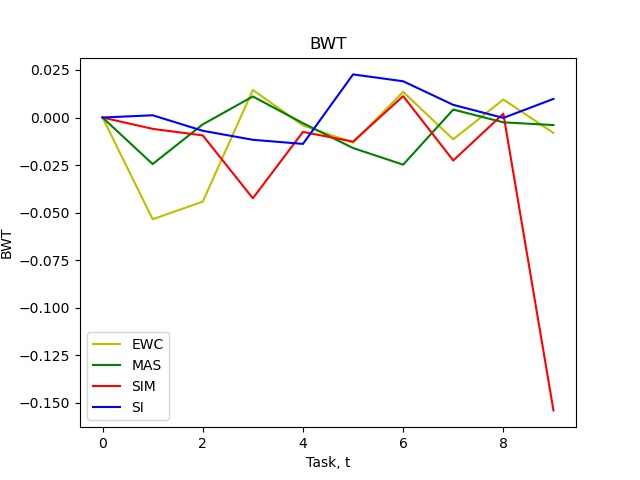
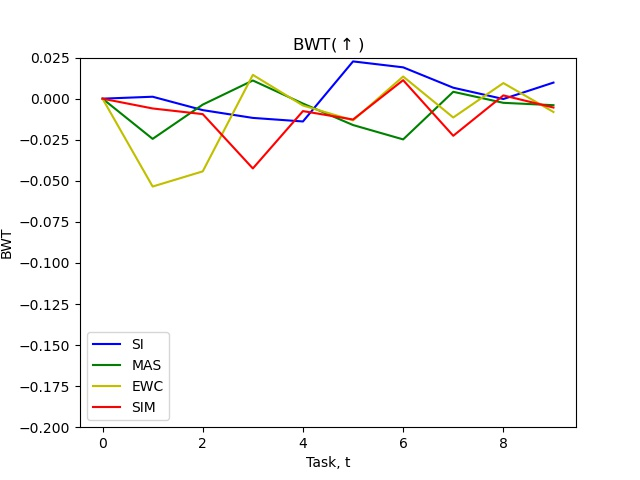
j

diff --git a/ISG/cifar100_baseline.py b/ISG/cifar100_baseline.py
@@ -1,0 +1,86 @@
+import torch.nn as nn
+import torch.nn.functional as F
+import torch.optim as optim
+import torchvision
+import os
+import shutil
+import sys
+from utils.optimizer_utils import *
+from utils.data_prep import *
+
+
+
+class Net(nn.Module):
+    def __init__(self):
+        super().__init__()
+        self.conv1 = nn.Conv2d(in_channels=3, out_channels=32, kernel_size=3, padding=1)
+        self.conv2 = nn.Conv2d(in_channels=32, out_channels=64, kernel_size=3, padding=1)
+        self.conv3 = nn.Conv2d(in_channels=64, out_channels=64, kernel_size=3, padding=1)
+        self.conv4 = nn.Conv2d(in_channels=64, out_channels=64, kernel_size=3, padding=1)
+        self.pool = nn.MaxPool2d(2, 2)
+        self.fc1 = nn.Linear(4096, 512)
+        self.fc2 = nn.Linear(512, 10)
+
+
+    def forward(self, x):
+        x = F.relu(self.conv1(x))
+        x = F.relu(self.conv2(x))
+        x = self.pool(x)
+        x = F.relu(self.conv3(x))
+        x = F.relu(self.conv4(x))
+        x = self.pool(x)
+        x = x.view(x.size(0), -1) 
+        x = self.fc1(x)
+        x = self.fc2(x)
+        return x
+
+def test(self, net, testloader, epoch):
+	test_losses = []
+	test_loss = 0
+	correct = 0
+
+	# with torch.no_grad(): # we don't need Autograd for testing. commented out for l2_grad computation.
+	for batch_idx, (data, target) in enumerate(testloader):
+		data = data.cuda()
+		target = target.cuda()
+		output = net.forward(data)
+		pred = output.data.max(1, keepdim=True)[1] #prediction
+		correct += pred.eq(target.data.view_as(pred)).sum() #view_as --> use same dim?
+	test_loss /= len(testloader.dataset)
+	test_losses.append(test_loss)
+	accuracy = 100.*correct/len(testloader.dataset)
+
+	print('Epoch: {}, \t Avg.loss: {:.4f},\t Test Accuracy: {}/{}({:.0f}%)'.format(epoch, test_loss, correct, len(testloader.dataset), accuracy))
+
+	return accuracy
+
+#Load datasets
+transform_train = transforms.Compose([
+	transforms.RandomCrop(32, padding=4),
+	transforms.RandomHorizontalFlip(),
+	transforms.ToTensor(),
+	transforms.Normalize((0.4914, 0.4822, 0.4465), (0.2023, 0.1994, 0.2010)),
+])
+transform_test = transforms.Compose([
+	transforms.ToTensor(),
+	transforms.Normalize((0.4914, 0.4822, 0.4465), (0.2023, 0.1994, 0.2010)),
+])
+
+trainset = torchvision.datasets.CIFAR100(root="../../data", train=True, download=False, transform=transform_train)
+testset = torchvision.datasets.CIFAR100(root="../../data", train=False, download=False, transform=transform_test)
+trainloader = torch.utils.data.DataLoader(trainset, batch_size=args.batch_size_train, shuffle=True, num_workers=2)
+testloader  = torch.utils.data.DataLoader(testset, batch_size=args.batch_size_test, shuffle=False, num_workers=2)
+
+
+net = Net()
+net.cuda()
+optimizer = optim.Adam(net.parameters(), lr=0.001, weight_decay=0)
+for epoch in range(80):
+	for batch_idx, (data, target) in enumerate(trainloader):
+		data = data.cuda()
+		target = target.cuda()
+		output = net.forward(data)
+		loss = nn.CrossEntropyLoss()
+		optimizer.zero_grad()
+		loss.backward()
+		acc = test(net, testloader, epoch)

diff --git a/ISG/utils/data_prep.py b/ISG/utils/data_prep.py
@@ -67,10 +67,10 @@ def load_datasets(args, task_num):
 			train = False,
 			transform = transform)
 
-	#Dataloader
-	trainloader = torch.utils.data.DataLoader(trainset, batch_size = args.batch_size_train, shuffle = True, num_workers = 2)
-	testloader = torch.utils.data.DataLoader(testset, batch_size = args.batch_size_test, shuffle = False, num_workers = 2)
-	# maskloader = torch.utils.data.DataLoader(testset, batch_size = args.batch_size_fisher, shuffle = True, num_workers = 2)
+		#Dataloader
+		trainloader = torch.utils.data.DataLoader(trainset, batch_size = args.batch_size_train, shuffle = True, num_workers = 2)
+		testloader = torch.utils.data.DataLoader(testset, batch_size = args.batch_size_test, shuffle = False, num_workers = 2)
+		# maskloader = torch.utils.data.DataLoader(testset, batch_size = args.batch_size_fisher, shuffle = True, num_workers = 2)
 
 	return trainloader, testloader
 

diff --git a/ISG/utils/result_utils.py b/ISG/utils/result_utils.py
@@ -107,8 +107,9 @@ class observer():
 		# Find n'th latest directory by modification date
 		# result_path = sorted(glob.glob(os.path.join(os.getcwd(), 'results', '*/')), key=os.path.getmtime)[-1]
 		# result_path = "/home/sanghyun/Documents/CL/ISG/results/Plots_pMNIST/"
-		# result_path = "/home/sanghyun/Documents/CL/ISG/results/Plots_sCIFAR/"
-		result_path = "/home/sanghyun/Documents/CL/ISG/results/Plots_sCIFAR2/"
+		result_path = "/home/sanghyun/Documents/CL/ISG/results/Plots_sCIFAR/"
+		self.args.dataset = 'sCIFAR100'
+		# result_path = "/home/sanghyun/Documents/CL/ISG/results/Plots_sCIFAR2/"
 
 		print("PATH:    ", result_path)
 		arr = os.listdir(result_path)
@@ -133,6 +134,7 @@ class observer():
 
 		#BWT
 		plt.figure()
+		plt.ylim(-0.2, 0.025)
 		item_list=[]
 		for item in arr:
 			if 'BWT' in item and "ANN" not in item:

diff --git a/ISG/SIM.py b/ISG/SIM.py
@@ -158,8 +158,8 @@ if __name__ =="__main__":
     args = get_args(sys.argv[1:])
     ob = observer(args) #records all experimental results
 
-    for repeat in range(args.repeat):
-        SIM_train(args, ob, repeat)
-        ob.to_csv() #saves all csv files
+    # for repeat in range(args.repeat):
+    #     SIM_train(args, ob, repeat)
+    #     ob.to_csv() #saves all csv files
 
-    # ob.plot_results()
+    ob.plot_results()
